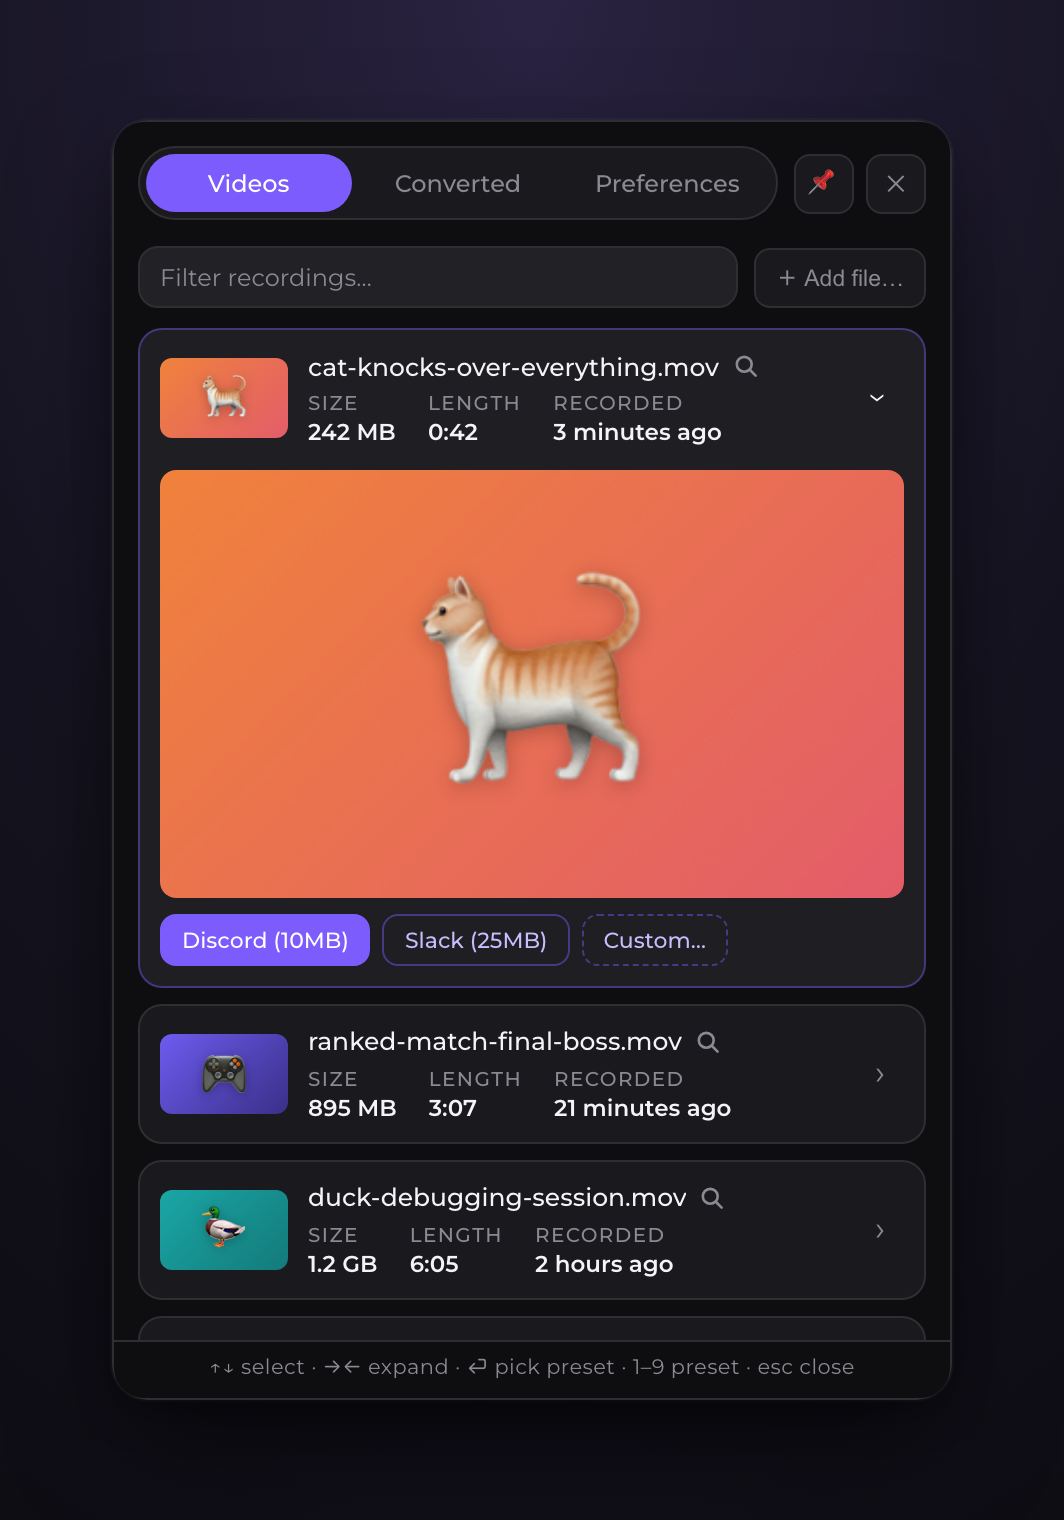
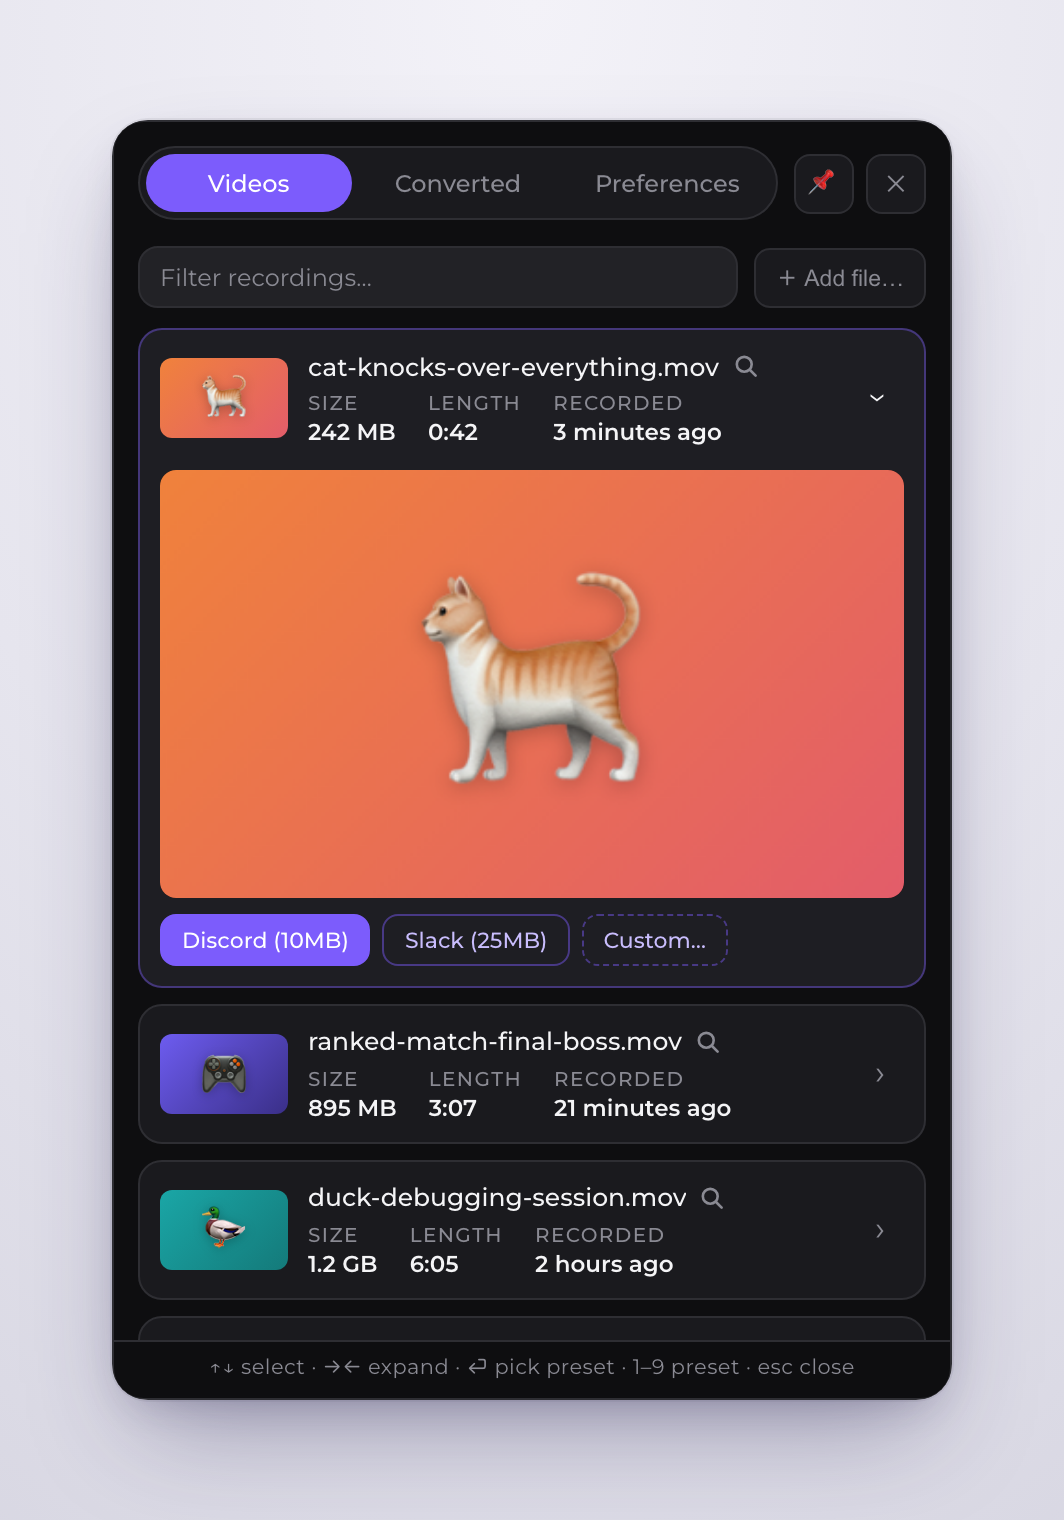
docs(capture): larger legible GIF, light backdrop, rename to demo.gif
- Tight framing for the GIF so the panel fills the frame and text is legible
  embedded near native width (464px); README displays it at 460.
- Light cool-gray backdrop gradient (was near-black) so the shots read cleanly
  on GitHub's light theme while still looking intentional on dark.
- Rename convert.gif -> demo.gif to bypass GitHub's stale image (camo) cache.

diff --git a/docs/capture/frame.ts b/docs/capture/frame.ts
@@ -2,20 +2,33 @@
 // the full-bleed panel into a framed product shot: the panel floats on a subtle
 // backdrop with a soft drop shadow, sized to the capture viewport box.
 //
-// Sizing is the single source of truth shared with harness.ts:
-//   panel box 420×640, backdrop padding 56px horizontal / 60px vertical
-//   → viewport 532×760.
+// The panel box is fixed (420×640); the backdrop padding around it is tunable so
+// stills can breathe (roomy) while the GIF stays tight + legible (the panel fills
+// most of the frame so its text renders near 1:1 when embedded).
 export const PANEL_W = 420;
 export const PANEL_H = 640;
-export const PAD_X = 56;
-export const PAD_Y = 60;
-export const VIEW_W = PANEL_W + PAD_X * 2; // 532
-export const VIEW_H = PANEL_H + PAD_Y * 2; // 760
 
-export const FRAME_CSS = `
+// Roomy padding for stills; tight padding for the GIF.
+export const STILL_PAD = { x: 56, y: 60 };
+export const GIF_PAD = { x: 22, y: 24 };
+
+export function viewport(pad: { x: number; y: number }): { width: number; height: number } {
+  return { width: PANEL_W + pad.x * 2, height: PANEL_H + pad.y * 2 };
+}
+
+// Back-compat constants for the default (still) frame.
+export const VIEW_W = viewport(STILL_PAD).width; // 532
+export const VIEW_H = viewport(STILL_PAD).height; // 760
+
+export function frameCss(pad: { x: number; y: number }): string {
+  return `
   html, body { height: 100%; }
   body {
-    background: radial-gradient(120% 120% at 50% 0%, #2a2342 0%, #15131f 55%, #0d0c12 100%);
+    /* Light, cool-gray gradient with a faint brand-purple tint. Reads cleanly on
+       GitHub's light theme (blends with the white page) while still looking
+       intentional on dark. The dark panel pops against it either way. */
+    background:
+      radial-gradient(125% 125% at 50% 0%, #f3f2f8 0%, #e6e5ee 52%, #d5d4e0 100%);
     display: flex; align-items: center; justify-content: center;
     overflow: hidden;
   }
@@ -23,11 +36,15 @@ export const FRAME_CSS = `
     width: ${PANEL_W}px; height: ${PANEL_H}px; flex: none;
     border-radius: 18px; overflow: hidden;
     box-shadow:
-      0 24px 60px -12px rgba(0, 0, 0, 0.65),
-      0 8px 24px -8px rgba(0, 0, 0, 0.5),
-      0 0 0 1px rgba(255, 255, 255, 0.04);
+      0 24px 55px -14px rgba(40, 34, 80, 0.40),
+      0 8px 22px -10px rgba(40, 34, 80, 0.30),
+      0 0 0 1px rgba(20, 18, 40, 0.06);
   }
 `;
+}
+
+// The default (roomy) frame used by the stills.
+export const FRAME_CSS = frameCss(STILL_PAD);
 
 // Stills only: the expanded preview shows an enlarged thumbnail while it "prepares
 // a preview"; hide the shimmer/label so the still reads as a finished frame.

diff --git a/docs/capture/gif.ts b/docs/capture/gif.ts
@@ -8,6 +8,7 @@ import { readdirSync, rmSync, statSync } from "node:fs";
 import { join } from "node:path";
 import { bootPanel } from "./harness";
 import { demoRecents } from "./demo-data";
+import { GIF_PAD, viewport } from "./frame";
 import type { JobState, Phase } from "../../src/lib/ipc";
 
 const STAR = demoRecents().find((r) => r.name.startsWith("ranked-match"))!; // 895 MB → big drop
@@ -48,9 +49,12 @@ export async function shootGif(
 ): Promise<void> {
   rmSync(scratchDir, { recursive: true, force: true });
   // active-bar layout: one click on a row converts with the visible preset.
+  // Tight framing so the panel fills the frame and its text is legible when the
+  // GIF is embedded near its native width.
   const { context, page } = await bootPanel(browser, {
     layout: "active-bar",
     recordVideoDir: scratchDir,
+    pad: GIF_PAD,
   });
 
   // Beat 1: hold on the list (thumbnails settled).
@@ -84,10 +88,11 @@ export async function shootGif(
   const src = join(scratchDir, webm);
 
   // Two-pass palette GIF: generate an optimized 128-colour palette, then apply
-  // it. 380px wide (displayed at 360 in the README → ~1:1, crisp) at 12fps keeps
-  // motion smooth while holding the file size down on the gradient backdrop.
+  // it. Encoded at the tight frame's native width so the panel text stays crisp
+  // and legible when embedded ~1:1. 12fps keeps motion smooth without bloating.
+  const gifW = viewport(GIF_PAD).width; // 464
   const palette = join(scratchDir, "palette.png");
-  const vf = "fps=12,scale=380:-1:flags=lanczos";
+  const vf = `fps=12,scale=${gifW}:-1:flags=lanczos`;
   execFileSync("ffmpeg", [
     "-y", "-i", src,
     "-vf", `${vf},palettegen=stats_mode=diff:max_colors=128`,

diff --git a/docs/capture/harness.ts b/docs/capture/harness.ts
@@ -12,7 +12,7 @@ import { installTauriMock } from "../../e2e/mock-ipc";
 import { defaultSettings } from "../../e2e/canned";
 import type { Settings } from "../../src/lib/ipc";
 import { demoRecents, demoConversions, THUMB_BY_PATH } from "./demo-data";
-import { FRAME_CSS, STILL_TWEAKS_CSS, VIEW_W, VIEW_H } from "./frame";
+import { frameCss, STILL_TWEAKS_CSS, STILL_PAD, viewport } from "./frame";
 
 const HERE = dirname(fileURLToPath(import.meta.url));
 const THUMBS = join(HERE, "thumbs");
@@ -26,6 +26,8 @@ export interface BootOpts {
   settings?: Partial<Settings>;
   recordVideoDir?: string;
   still?: boolean;
+  /** Backdrop padding around the panel; defaults to the roomy still framing. */
+  pad?: { x: number; y: number };
 }
 
 export async function bootPanel(
@@ -40,11 +42,13 @@ export async function bootPanel(
     ...opts.settings,
   } as unknown as Record<string, unknown>;
 
+  const pad = opts.pad ?? STILL_PAD;
+  const view = viewport(pad);
   const context = await browser.newContext({
-    viewport: { width: VIEW_W, height: VIEW_H },
+    viewport: view,
     deviceScaleFactor: 2,
     ...(opts.recordVideoDir
-      ? { recordVideo: { dir: opts.recordVideoDir, size: { width: VIEW_W, height: VIEW_H } } }
+      ? { recordVideo: { dir: opts.recordVideoDir, size: view } }
       : {}),
   });
 
@@ -106,7 +110,7 @@ export async function bootPanel(
   await page.goto(BASE_URL);
   await page.waitForSelector(".panel .seg", { state: "attached" });
 
-  await page.addStyleTag({ content: FRAME_CSS });
+  await page.addStyleTag({ content: frameCss(pad) });
   if (opts.still) await page.addStyleTag({ content: STILL_TWEAKS_CSS });
 
   return { context, page };

diff --git a/docs/capture/shoot.ts b/docs/capture/shoot.ts
@@ -46,7 +46,7 @@ async function main(): Promise<void> {
       console.log("• shooting stills");
       await shootStills(browser, DOCS);
       console.log("• shooting the conversion gif");
-      await shootGif(browser, join(DOCS, "convert.gif"), join(SCRATCH, "gif"));
+      await shootGif(browser, join(DOCS, "demo.gif"), join(SCRATCH, "gif"));
     } finally {
       await browser.close();
     }

diff --git a/docs/capture/README.md b/docs/capture/README.md
@@ -25,7 +25,7 @@ This regenerates the emoji thumbnails, starts a throwaway Vite server on port
 - `docs/preset-quickpick.png`, `docs/preset-active-bar.png` — preset layouts
 - `docs/preferences.png` — Preferences tab
 - `docs/expanded.png` — an expanded row with preview + preset chips
-- `docs/convert.gif` — the one-click conversion demo
+- `docs/demo.gif` — the one-click conversion demo
 
 ## Editing the demo cast
 

diff --git a/README.md b/README.md
@@ -35,7 +35,7 @@ no account.
 </p>
 
 <p align="center">
-  <img src="docs/convert.gif" width="360" alt="compressing a recording in one click — click a video, watch it shrink under the target" />
+  <img src="docs/demo.gif" width="460" alt="compressing a recording in one click — click a video, watch it shrink under the target" />
 </p>
 
 ## 📖 Documentation
